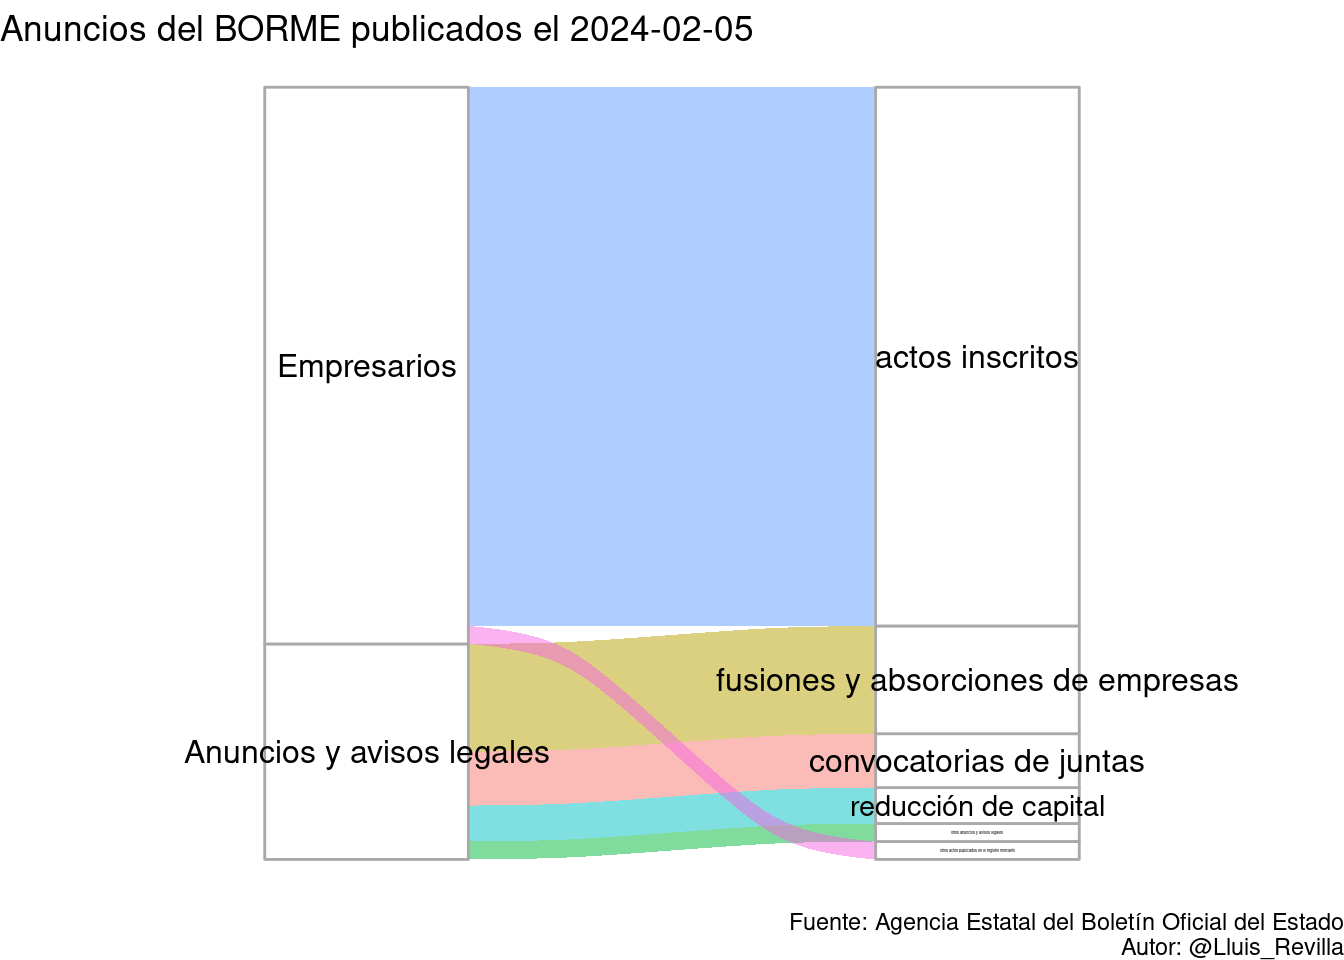
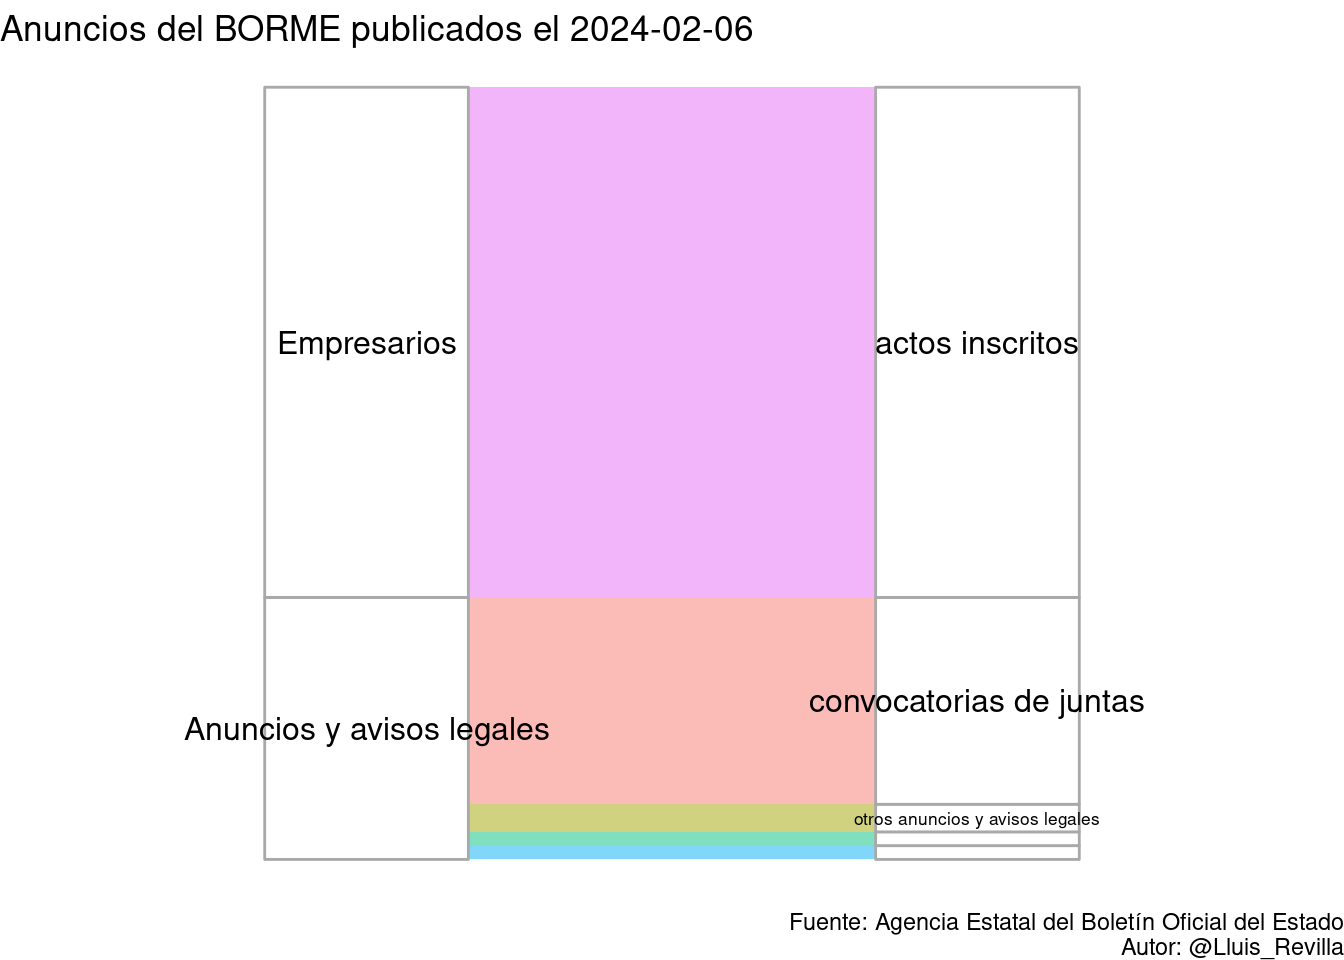
Update BORME

Changed region(s): [[0.125, 0.0938, 0.9375, 0.9062]]

diff --git a/docs/last_BORME.html b/docs/last_BORME.html
@@ -379,14 +379,14 @@ $(document).ready(function () {
 
 <div id="resumen-gráfico" class="section level1">
 <h1>Resumen gráfico</h1>
-<p>Esta página web contiene el último sumario del BORME publicado el 2024-02-05 con 43 publicaciones.</p>
+<p>Esta página web contiene el último sumario del BORME publicado el 2024-02-06 con 56 publicaciones.</p>
 <p><img src="last_BORME_files/figure-html/graphics-1.png" width="672" /></p>
 </div>
 <div id="tabla-de-publicaciones" class="section level1">
 <h1>Tabla de publicaciones</h1>
 <p>Aquí está la tabla completa con enlaces a las publicaciones:</p>
-<div class="datatables html-widget html-fill-item-overflow-hidden html-fill-item" id="htmlwidget-860cc57feae1634acd80" style="width:100%;height:auto;"></div>
-<script type="application/json" data-for="htmlwidget-860cc57feae1634acd80">{"x":{"filter":"top","vertical":false,"filterHTML":"<tr>\n  <td><\/td>\n  <td data-type=\"character\" style=\"vertical-align: top;\">\n    <div class=\"form-group has-feedback\" style=\"margin-bottom: auto;\">\n      <input type=\"search\" placeholder=\"All\" class=\"form-control\" style=\"width: 100%;\"/>\n      <span class=\"glyphicon glyphicon-remove-circle form-control-feedback\"><\/span>\n    <\/div>\n  <\/td>\n  <td data-type=\"character\" style=\"vertical-align: top;\">\n    <div class=\"form-group has-feedback\" style=\"margin-bottom: auto;\">\n      <input type=\"search\" placeholder=\"All\" class=\"form-control\" style=\"width: 100%;\"/>\n      <span class=\"glyphicon glyphicon-remove-circle form-control-feedback\"><\/span>\n    <\/div>\n  <\/td>\n  <td data-type=\"character\" style=\"vertical-align: top;\">\n    <div class=\"form-group has-feedback\" style=\"margin-bottom: auto;\">\n      <input type=\"search\" placeholder=\"All\" class=\"form-control\" style=\"width: 100%;\" disabled=\"\"/>\n      <span class=\"glyphicon glyphicon-remove-circle form-control-feedback\"><\/span>\n    <\/div>\n  <\/td>\n  <td data-type=\"character\" style=\"vertical-align: top;\">\n    <div class=\"form-group has-feedback\" style=\"margin-bottom: auto;\">\n      <input type=\"search\" placeholder=\"All\" class=\"form-control\" style=\"width: 100%;\"/>\n      <span class=\"glyphicon glyphicon-remove-circle form-control-feedback\"><\/span>\n    <\/div>\n  <\/td>\n<\/tr>","data":[["1","2","3","4","5","6","7","8","9","10","11","12","13","14","15","16","17","18","19","20","21","22","23","24","25","26","27","28","29","30","31","32","33","34","35","36","37","38","39","40","41","42","43"],["SECCIÓN PRIMERA. Empresarios","SECCIÓN PRIMERA. Empresarios","SECCIÓN PRIMERA. Empresarios","SECCIÓN PRIMERA. Empresarios","SECCIÓN PRIMERA. Empresarios","SECCIÓN PRIMERA. Empresarios","SECCIÓN PRIMERA. Empresarios","SECCIÓN PRIMERA. Empresarios","SECCIÓN PRIMERA. Empresarios","SECCIÓN PRIMERA. Empresarios","SECCIÓN PRIMERA. Empresarios","SECCIÓN PRIMERA. Empresarios","SECCIÓN PRIMERA. Empresarios","SECCIÓN PRIMERA. Empresarios","SECCIÓN PRIMERA. Empresarios","SECCIÓN PRIMERA. Empresarios","SECCIÓN PRIMERA. Empresarios","SECCIÓN PRIMERA. Empresarios","SECCIÓN PRIMERA. Empresarios","SECCIÓN PRIMERA. Empresarios","SECCIÓN PRIMERA. Empresarios","SECCIÓN PRIMERA. Empresarios","SECCIÓN PRIMERA. Empresarios","SECCIÓN PRIMERA. Empresarios","SECCIÓN PRIMERA. Empresarios","SECCIÓN PRIMERA. Empresarios","SECCIÓN PRIMERA. Empresarios","SECCIÓN PRIMERA. Empresarios","SECCIÓN PRIMERA. Empresarios","SECCIÓN PRIMERA. Empresarios","SECCIÓN PRIMERA. Empresarios","SECCIÓN SEGUNDA. Anuncios y avisos legales","SECCIÓN SEGUNDA. Anuncios y avisos legales","SECCIÓN SEGUNDA. Anuncios y avisos legales","SECCIÓN SEGUNDA. Anuncios y avisos legales","SECCIÓN SEGUNDA. Anuncios y avisos legales","SECCIÓN SEGUNDA. Anuncios y avisos legales","SECCIÓN SEGUNDA. Anuncios y avisos legales","SECCIÓN SEGUNDA. Anuncios y avisos legales","SECCIÓN SEGUNDA. Anuncios y avisos legales","SECCIÓN SEGUNDA. Anuncios y avisos legales","SECCIÓN SEGUNDA. Anuncios y avisos legales","SECCIÓN SEGUNDA. Anuncios y avisos legales"],["Actos inscritos","Actos inscritos","Actos inscritos","Actos inscritos","Actos inscritos","Actos inscritos","Actos inscritos","Actos inscritos","Actos inscritos","Actos inscritos","Actos inscritos","Actos inscritos","Actos inscritos","Actos inscritos","Actos inscritos","Actos inscritos","Actos inscritos","Actos inscritos","Actos inscritos","Actos inscritos","Actos inscritos","Actos inscritos","Actos inscritos","Actos inscritos","Actos inscritos","Actos inscritos","Actos inscritos","Actos inscritos","Actos inscritos","Actos inscritos","Otros actos publicados en el Registro Mercantil","CONVOCATORIAS DE JUNTAS","CONVOCATORIAS DE JUNTAS","CONVOCATORIAS DE JUNTAS","FUSIONES Y ABSORCIONES DE EMPRESAS","FUSIONES Y ABSORCIONES DE EMPRESAS","FUSIONES Y ABSORCIONES DE EMPRESAS","FUSIONES Y ABSORCIONES DE EMPRESAS","FUSIONES Y ABSORCIONES DE EMPRESAS","FUSIONES Y ABSORCIONES DE EMPRESAS","REDUCCIÓN DE CAPITAL","REDUCCIÓN DE CAPITAL","OTROS ANUNCIOS Y AVISOS LEGALES"],[null,null,null,null,null,null,null,null,null,null,null,null,null,null,null,null,null,null,null,null,null,null,null,null,null,null,null,null,null,null,null,null,null,null,null,null,null,null,null,null,null,null,null],["BORME-A-2024-25-01","BORME-A-2024-25-03","BORME-A-2024-25-04","BORME-A-2024-25-06","BORME-A-2024-25-07","BORME-A-2024-25-08","BORME-A-2024-25-11","BORME-A-2024-25-12","BORME-A-2024-25-13","BORME-A-2024-25-15","BORME-A-2024-25-17","BORME-A-2024-25-18","BORME-A-2024-25-22","BORME-A-2024-25-23","BORME-A-2024-25-25","BORME-A-2024-25-28","BORME-A-2024-25-29","BORME-A-2024-25-30","BORME-A-2024-25-35","BORME-A-2024-25-36","BORME-A-2024-25-38","BORME-A-2024-25-42","BORME-A-2024-25-43","BORME-A-2024-25-44","BORME-A-2024-25-45","BORME-A-2024-25-46","BORME-A-2024-25-47","BORME-A-2024-25-49","BORME-A-2024-25-50","BORME-A-2024-25-99","BORME-B-2024-25-01","BORME-C-2024-356","BORME-C-2024-357","BORME-C-2024-358","BORME-C-2024-359","BORME-C-2024-360","BORME-C-2024-361","BORME-C-2024-362","BORME-C-2024-363","BORME-C-2024-364","BORME-C-2024-365","BORME-C-2024-366","BORME-C-2024-367"]],"container":"<table class=\"display\">\n  <thead>\n    <tr>\n      <th> <\/th>\n      <th>Sección<\/th>\n      <th>Emisor<\/th>\n      <th>Texto<\/th>\n      <th>Link<\/th>\n    <\/tr>\n  <\/thead>\n<\/table>","options":{"pageLength":10,"autoWidth":true,"columnDefs":[{"orderable":false,"targets":0},{"name":" ","targets":0},{"name":"Sección","targets":1},{"name":"Emisor","targets":2},{"name":"Texto","targets":3},{"name":"Link","targets":4}],"order":[],"orderClasses":false,"orderCellsTop":true}},"evals":[],"jsHooks":[]}</script>
+<div class="datatables html-widget html-fill-item-overflow-hidden html-fill-item" id="htmlwidget-2b932f3db7e35cca35df" style="width:100%;height:auto;"></div>
+<script type="application/json" data-for="htmlwidget-2b932f3db7e35cca35df">{"x":{"filter":"top","vertical":false,"filterHTML":"<tr>\n  <td><\/td>\n  <td data-type=\"character\" style=\"vertical-align: top;\">\n    <div class=\"form-group has-feedback\" style=\"margin-bottom: auto;\">\n      <input type=\"search\" placeholder=\"All\" class=\"form-control\" style=\"width: 100%;\"/>\n      <span class=\"glyphicon glyphicon-remove-circle form-control-feedback\"><\/span>\n    <\/div>\n  <\/td>\n  <td data-type=\"character\" style=\"vertical-align: top;\">\n    <div class=\"form-group has-feedback\" style=\"margin-bottom: auto;\">\n      <input type=\"search\" placeholder=\"All\" class=\"form-control\" style=\"width: 100%;\"/>\n      <span class=\"glyphicon glyphicon-remove-circle form-control-feedback\"><\/span>\n    <\/div>\n  <\/td>\n  <td data-type=\"character\" style=\"vertical-align: top;\">\n    <div class=\"form-group has-feedback\" style=\"margin-bottom: auto;\">\n      <input type=\"search\" placeholder=\"All\" class=\"form-control\" style=\"width: 100%;\" disabled=\"\"/>\n      <span class=\"glyphicon glyphicon-remove-circle form-control-feedback\"><\/span>\n    <\/div>\n  <\/td>\n  <td data-type=\"character\" style=\"vertical-align: top;\">\n    <div class=\"form-group has-feedback\" style=\"margin-bottom: auto;\">\n      <input type=\"search\" placeholder=\"All\" class=\"form-control\" style=\"width: 100%;\"/>\n      <span class=\"glyphicon glyphicon-remove-circle form-control-feedback\"><\/span>\n    <\/div>\n  <\/td>\n<\/tr>","data":[["1","2","3","4","5","6","7","8","9","10","11","12","13","14","15","16","17","18","19","20","21","22","23","24","25","26","27","28","29","30","31","32","33","34","35","36","37","38","39","40","41","42","43","44","45","46","47","48","49","50","51","52","53","54","55","56"],["SECCIÓN PRIMERA. Empresarios","SECCIÓN PRIMERA. Empresarios","SECCIÓN PRIMERA. Empresarios","SECCIÓN PRIMERA. Empresarios","SECCIÓN PRIMERA. Empresarios","SECCIÓN PRIMERA. Empresarios","SECCIÓN PRIMERA. Empresarios","SECCIÓN PRIMERA. Empresarios","SECCIÓN PRIMERA. Empresarios","SECCIÓN PRIMERA. Empresarios","SECCIÓN PRIMERA. Empresarios","SECCIÓN PRIMERA. Empresarios","SECCIÓN PRIMERA. Empresarios","SECCIÓN PRIMERA. Empresarios","SECCIÓN PRIMERA. Empresarios","SECCIÓN PRIMERA. Empresarios","SECCIÓN PRIMERA. Empresarios","SECCIÓN PRIMERA. Empresarios","SECCIÓN PRIMERA. Empresarios","SECCIÓN PRIMERA. Empresarios","SECCIÓN PRIMERA. Empresarios","SECCIÓN PRIMERA. Empresarios","SECCIÓN PRIMERA. Empresarios","SECCIÓN PRIMERA. Empresarios","SECCIÓN PRIMERA. Empresarios","SECCIÓN PRIMERA. Empresarios","SECCIÓN PRIMERA. Empresarios","SECCIÓN PRIMERA. Empresarios","SECCIÓN PRIMERA. Empresarios","SECCIÓN PRIMERA. Empresarios","SECCIÓN PRIMERA. Empresarios","SECCIÓN PRIMERA. Empresarios","SECCIÓN PRIMERA. Empresarios","SECCIÓN PRIMERA. Empresarios","SECCIÓN PRIMERA. Empresarios","SECCIÓN PRIMERA. Empresarios","SECCIÓN PRIMERA. Empresarios","SECCIÓN SEGUNDA. Anuncios y avisos legales","SECCIÓN SEGUNDA. Anuncios y avisos legales","SECCIÓN SEGUNDA. Anuncios y avisos legales","SECCIÓN SEGUNDA. Anuncios y avisos legales","SECCIÓN SEGUNDA. Anuncios y avisos legales","SECCIÓN SEGUNDA. Anuncios y avisos legales","SECCIÓN SEGUNDA. Anuncios y avisos legales","SECCIÓN SEGUNDA. Anuncios y avisos legales","SECCIÓN SEGUNDA. Anuncios y avisos legales","SECCIÓN SEGUNDA. Anuncios y avisos legales","SECCIÓN SEGUNDA. Anuncios y avisos legales","SECCIÓN SEGUNDA. Anuncios y avisos legales","SECCIÓN SEGUNDA. Anuncios y avisos legales","SECCIÓN SEGUNDA. Anuncios y avisos legales","SECCIÓN SEGUNDA. Anuncios y avisos legales","SECCIÓN SEGUNDA. Anuncios y avisos legales","SECCIÓN SEGUNDA. Anuncios y avisos legales","SECCIÓN SEGUNDA. Anuncios y avisos legales","SECCIÓN SEGUNDA. Anuncios y avisos legales"],["Actos inscritos","Actos inscritos","Actos inscritos","Actos inscritos","Actos inscritos","Actos inscritos","Actos inscritos","Actos inscritos","Actos inscritos","Actos inscritos","Actos inscritos","Actos inscritos","Actos inscritos","Actos inscritos","Actos inscritos","Actos inscritos","Actos inscritos","Actos inscritos","Actos inscritos","Actos inscritos","Actos inscritos","Actos inscritos","Actos inscritos","Actos inscritos","Actos inscritos","Actos inscritos","Actos inscritos","Actos inscritos","Actos inscritos","Actos inscritos","Actos inscritos","Actos inscritos","Actos inscritos","Actos inscritos","Actos inscritos","Actos inscritos","Actos inscritos","CONVOCATORIAS DE JUNTAS","CONVOCATORIAS DE JUNTAS","CONVOCATORIAS DE JUNTAS","CONVOCATORIAS DE JUNTAS","CONVOCATORIAS DE JUNTAS","CONVOCATORIAS DE JUNTAS","CONVOCATORIAS DE JUNTAS","CONVOCATORIAS DE JUNTAS","CONVOCATORIAS DE JUNTAS","CONVOCATORIAS DE JUNTAS","CONVOCATORIAS DE JUNTAS","CONVOCATORIAS DE JUNTAS","CONVOCATORIAS DE JUNTAS","CONVOCATORIAS DE JUNTAS","CONVOCATORIAS DE JUNTAS","TRANSFORMACIÓN DE EMPRESAS","REDUCCIÓN DE CAPITAL","OTROS ANUNCIOS Y AVISOS LEGALES","OTROS ANUNCIOS Y AVISOS LEGALES"],[null,null,null,null,null,null,null,null,null,null,null,null,null,null,null,null,null,null,null,null,null,null,null,null,null,null,null,null,null,null,null,null,null,null,null,null,null,null,null,null,null,null,null,null,null,null,null,null,null,null,null,null,null,null,null,null],["BORME-A-2024-26-02","BORME-A-2024-26-03","BORME-A-2024-26-04","BORME-A-2024-26-06","BORME-A-2024-26-07","BORME-A-2024-26-08","BORME-A-2024-26-09","BORME-A-2024-26-11","BORME-A-2024-26-12","BORME-A-2024-26-14","BORME-A-2024-26-15","BORME-A-2024-26-16","BORME-A-2024-26-18","BORME-A-2024-26-23","BORME-A-2024-26-24","BORME-A-2024-26-25","BORME-A-2024-26-26","BORME-A-2024-26-27","BORME-A-2024-26-28","BORME-A-2024-26-29","BORME-A-2024-26-30","BORME-A-2024-26-32","BORME-A-2024-26-33","BORME-A-2024-26-34","BORME-A-2024-26-35","BORME-A-2024-26-36","BORME-A-2024-26-40","BORME-A-2024-26-41","BORME-A-2024-26-42","BORME-A-2024-26-43","BORME-A-2024-26-45","BORME-A-2024-26-46","BORME-A-2024-26-47","BORME-A-2024-26-48","BORME-A-2024-26-50","BORME-A-2024-26-51","BORME-A-2024-26-99","BORME-C-2024-368","BORME-C-2024-369","BORME-C-2024-370","BORME-C-2024-371","BORME-C-2024-372","BORME-C-2024-373","BORME-C-2024-374","BORME-C-2024-375","BORME-C-2024-376","BORME-C-2024-377","BORME-C-2024-378","BORME-C-2024-379","BORME-C-2024-380","BORME-C-2024-381","BORME-C-2024-382","BORME-C-2024-383","BORME-C-2024-384","BORME-C-2024-385","BORME-C-2024-386"]],"container":"<table class=\"display\">\n  <thead>\n    <tr>\n      <th> <\/th>\n      <th>Sección<\/th>\n      <th>Emisor<\/th>\n      <th>Texto<\/th>\n      <th>Link<\/th>\n    <\/tr>\n  <\/thead>\n<\/table>","options":{"pageLength":10,"autoWidth":true,"columnDefs":[{"orderable":false,"targets":0},{"name":" ","targets":0},{"name":"Sección","targets":1},{"name":"Emisor","targets":2},{"name":"Texto","targets":3},{"name":"Link","targets":4}],"order":[],"orderClasses":false,"orderCellsTop":true}},"evals":[],"jsHooks":[]}</script>
 </div>
 
 
